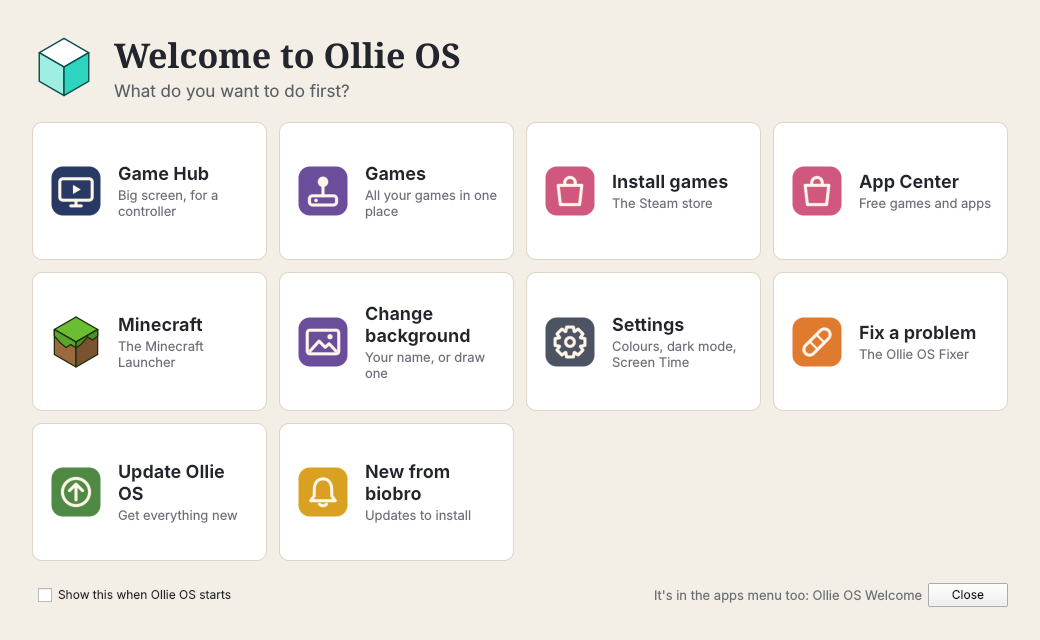
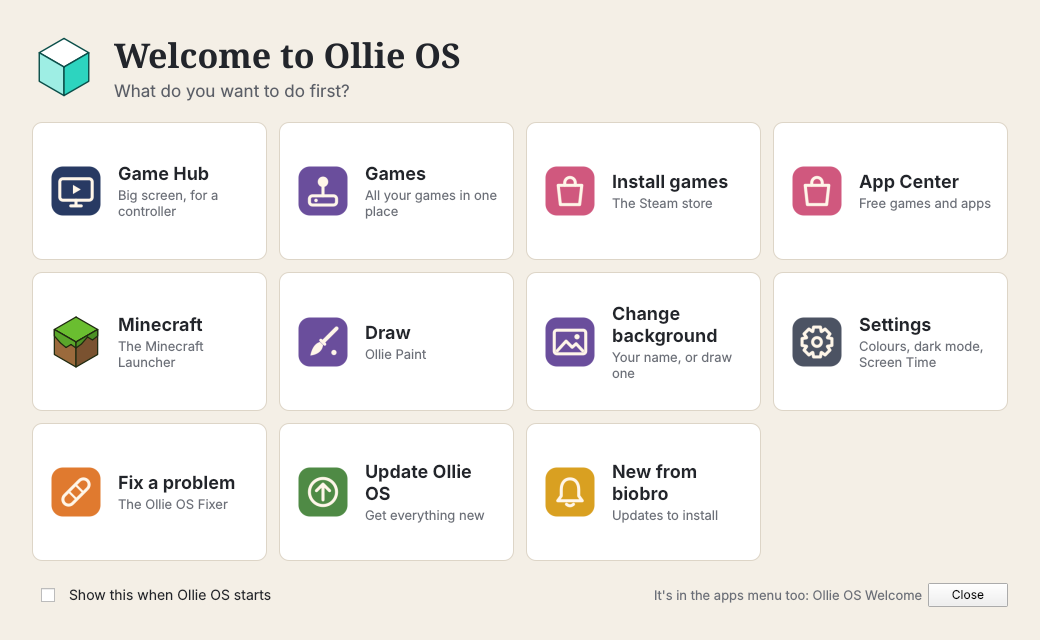
Add Ollie Paint, a mouse drawing app
Brush, pencil, eraser, fill bucket, line, rectangle and circle tools,
16 colours plus a colour picker, sizes, undo and redo, open a picture
to draw on, and Save to Pictures/Drawings. It is in the apps menu and
on the Welcome screen as Draw, with two new trophies (Painter, Gallery)
and its own icon. The Fun Pack updater now carries the apps' icons.

Claude-Session: https://claude.ai/code/session_01TsrSC7n5nV27rvJng7eshW

diff --git a/os/profile/airootfs/usr/local/share/ollie/paint.qml b/os/profile/airootfs/usr/local/share/ollie/paint.qml
@@ -1,0 +1,339 @@
+// Ollie Paint (ollie-paint): draw with the mouse. Brush, pencil, eraser,
+// fill bucket, line, rectangle and circle; a palette and any colour you
+// like; sizes; undo and redo (Ctrl+Z, Ctrl+Y); a new page, a picture to
+// draw on, and Save (a PNG in Pictures/Drawings).
+// Says on the console: OLLIE-ACTION saved FILE.
+// Argument: out=DIR (where drawings are saved).
+import QtQuick
+import QtQuick.Controls
+import QtQuick.Layouts
+import QtQuick.Dialogs
+
+ApplicationWindow {
+    id: win
+    width: 1180
+    height: 800
+    visible: true
+    title: "Ollie Paint"
+    color: "#E4E1DA" // a desk, with the paper on it
+
+    function arg(n) {
+        const a = Qt.application.arguments;
+        for (let i = 0; i < a.length; i++)
+            if (a[i].indexOf(n + "=") === 0)
+                return a[i].substring(n.length + 1);
+        return "";
+    }
+
+    property string tool: "brush"      // brush, pencil, eraser, fill, line, rect, circle
+    property color ink: "#22252B"
+    property int size: 10
+    property bool filled: false        // rectangles and circles: filled or outlined
+    property string note: ""
+    readonly property var colours: ["#22252B", "#6B6F78", "#FFFFFF", "#7E5634", "#C8473D", "#E07A2F", "#D9A021", "#F2D06B",
+        "#4F8A45", "#8DB86B", "#257A78", "#7FC4C0", "#336B9E", "#8FB7DD", "#6A4E9C", "#D0587E"]
+    readonly property var tools: [["brush", "Brush"], ["pencil", "Pencil"], ["eraser", "Eraser"], ["fill", "Fill"],
+        ["line", "Line"], ["rect", "Rectangle"], ["circle", "Circle"]]
+
+    // --- Undo and redo: the page's pixels before each change ---
+    property var undos: []
+    property var redos: []
+    function remember() {
+        const c = paper.getContext("2d");
+        const u = undos.slice(-24); u.push(c.getImageData(0, 0, paper.width, paper.height));
+        undos = u; redos = [];
+    }
+    function undo() {
+        if (!undos.length) return;
+        const c = paper.getContext("2d");
+        const r = redos.slice(); r.push(c.getImageData(0, 0, paper.width, paper.height)); redos = r;
+        const u = undos.slice(); c.drawImage(u.pop(), 0, 0); undos = u;
+        paper.requestPaint();
+    }
+    function redo() {
+        if (!redos.length) return;
+        const c = paper.getContext("2d");
+        const u = undos.slice(); u.push(c.getImageData(0, 0, paper.width, paper.height)); undos = u;
+        const r = redos.slice(); c.drawImage(r.pop(), 0, 0); redos = r;
+        paper.requestPaint();
+    }
+    function newPage() {
+        remember();
+        const c = paper.getContext("2d");
+        c.fillStyle = "white"; c.fillRect(0, 0, paper.width, paper.height);
+        paper.requestPaint(); note = "";
+    }
+    function save() {
+        const d = new Date(), two = n => (n < 10 ? "0" : "") + n;
+        const f = arg("out") + "/drawing-" + d.getFullYear() + "-" + two(d.getMonth() + 1) + "-" + two(d.getDate())
+            + "-" + two(d.getHours()) + two(d.getMinutes()) + two(d.getSeconds()) + ".png";
+        if (paper.save(f)) { note = "Saved in Pictures, Drawings."; console.log("OLLIE-ACTION saved " + f); }
+        else note = "It could not be saved.";
+    }
+
+    // Fill: the area of one colour around (x, y), in the ink (line by line).
+    function fill(x, y) {
+        const c = paper.getContext("2d"), w = paper.width, h = paper.height;
+        x = Math.floor(x); y = Math.floor(y);
+        if (x < 0 || y < 0 || x >= w || y >= h) return;
+        const img = c.getImageData(0, 0, w, h), px = img.data;
+        const at = (x + y * w) * 4;
+        const t = [px[at], px[at + 1], px[at + 2], px[at + 3]];
+        const ink = Qt.color(win.ink), n = [Math.round(ink.r * 255), Math.round(ink.g * 255), Math.round(ink.b * 255), 255];
+        if (t[0] === n[0] && t[1] === n[1] && t[2] === n[2] && t[3] === n[3]) return;
+        // Close colours count too (the edges of soft lines).
+        const same = i => Math.abs(px[i] - t[0]) + Math.abs(px[i + 1] - t[1]) + Math.abs(px[i + 2] - t[2]) + Math.abs(px[i + 3] - t[3]) < 200;
+        const set = i => { px[i] = n[0]; px[i + 1] = n[1]; px[i + 2] = n[2]; px[i + 3] = 255; };
+        const stack = [[x, y]];
+        while (stack.length) {
+            let [sx, sy] = stack.pop();
+            let i = (sx + sy * w) * 4;
+            while (sx >= 0 && same(i)) { sx--; i -= 4; }
+            sx++; i += 4;
+            let up = false, down = false;
+            while (sx < w && same(i)) {
+                set(i);
+                if (sy > 0) { const u = same(i - w * 4); if (u && !up) { stack.push([sx, sy - 1]); up = true; } else if (!u) up = false; }
+                if (sy < h - 1) { const d = same(i + w * 4); if (d && !down) { stack.push([sx, sy + 1]); down = true; } else if (!d) down = false; }
+                sx++; i += 4;
+            }
+        }
+        c.drawImage(img, 0, 0); // (putImageData does nothing in Qt's canvas here)
+        paper.requestPaint();
+    }
+
+    Shortcut { sequences: [StandardKey.Undo]; onActivated: win.undo() }
+    Shortcut { sequences: [StandardKey.Redo]; onActivated: win.redo() }
+    Shortcut { sequence: "Ctrl+Y"; onActivated: win.redo() }
+    Shortcut { sequences: [StandardKey.Save]; onActivated: win.save() }
+
+    FileDialog {
+        id: picker
+        title: "Pick a picture to draw on"
+        nameFilters: ["Pictures (*.png *.jpg *.jpeg *.bmp *.gif *.webp)"]
+        onAccepted: { win.remember(); paper.loadImage(selectedFile); paper.pending = selectedFile.toString(); }
+    }
+
+    ColumnLayout {
+        anchors.fill: parent
+        spacing: 0
+
+        // Top bar.
+        Rectangle {
+            Layout.fillWidth: true
+            Layout.preferredHeight: 56
+            color: "#F4F2EE"
+            border.color: "#D3CEC4"
+            RowLayout {
+                anchors.fill: parent
+                anchors.leftMargin: 16; anchors.rightMargin: 16
+                spacing: 8
+                Image { source: "file:///usr/share/icons/hicolor/64x64/apps/ollie-paint.png"; sourceSize: Qt.size(32, 32) }
+                Label { text: "Ollie Paint"; color: "#22252B"; font.pixelSize: 20; font.bold: true; rightPadding: 16 }
+                Button { text: "New"; onClicked: win.newPage() }
+                Button { text: "Open a picture"; onClicked: picker.open() }
+                Button { text: "Undo"; enabled: win.undos.length > 0; onClicked: win.undo() }
+                Button { text: "Redo"; enabled: win.redos.length > 0; onClicked: win.redo() }
+                Item { Layout.fillWidth: true }
+                Label { text: win.note; color: "#4F8A45"; font.pixelSize: 14 }
+                Button { text: "Save"; highlighted: true; onClicked: win.save() }
+            }
+        }
+
+        RowLayout {
+            Layout.fillWidth: true
+            Layout.fillHeight: true
+            spacing: 0
+
+            // The tools, down the side.
+            Rectangle {
+                Layout.fillHeight: true
+                Layout.preferredWidth: 132
+                color: "#F4F2EE"
+                border.color: "#D3CEC4"
+                ColumnLayout {
+                    anchors.fill: parent
+                    anchors.margins: 10
+                    spacing: 4
+                    Repeater {
+                        model: win.tools
+                        delegate: Rectangle {
+                            required property var modelData
+                            Layout.fillWidth: true
+                            height: 40; radius: 4
+                            color: win.tool === modelData[0] ? "#22252B" : toolArea.containsMouse ? "#E4E1DA" : "transparent"
+                            Label {
+                                anchors.verticalCenter: parent.verticalCenter; x: 12
+                                text: modelData[1]; font.pixelSize: 15
+                                color: win.tool === modelData[0] ? "white" : "#22252B"
+                            }
+                            MouseArea { id: toolArea; anchors.fill: parent; hoverEnabled: true; onClicked: win.tool = modelData[0] }
+                        }
+                    }
+                    CheckBox {
+                        visible: win.tool === "rect" || win.tool === "circle"
+                        checked: win.filled; onToggled: win.filled = checked
+                        contentItem: Label { text: "Filled"; leftPadding: 26; color: "#22252B"; verticalAlignment: Text.AlignVCenter }
+                    }
+                    Item { Layout.fillHeight: true }
+                    Label { text: "Size " + win.size; color: "#6B6F78"; font.pixelSize: 13 }
+                    Slider { Layout.fillWidth: true; from: 1; to: 60; stepSize: 1; value: win.size; onMoved: win.size = value }
+                    // How big the brush is, drawn.
+                    Item {
+                        Layout.fillWidth: true; Layout.preferredHeight: 66
+                        Rectangle {
+                            anchors.centerIn: parent
+                            width: Math.max(2, win.size); height: width; radius: width / 2
+                            color: win.tool === "eraser" ? "white" : win.ink
+                            border.color: "#B9B4AA"; border.width: win.tool === "eraser" ? 1 : 0
+                        }
+                    }
+                }
+            }
+
+            // The paper.
+            Item {
+                id: desk
+                Layout.fillWidth: true
+                Layout.fillHeight: true
+                clip: true
+                Rectangle { // its shadow
+                    x: paper.x + 4; y: paper.y + 4; width: paper.width; height: paper.height; color: "#C8C3B9"
+                }
+                Canvas {
+                    id: paper
+                    // A fixed size (a canvas that changes size loses its drawing).
+                    width: 1000; height: 620
+                    anchors.centerIn: parent
+                    property bool ready: false
+                    property string pending: ""
+                    property real lx: 0
+                    property real ly: 0
+                    onPaint: {
+                        if (ready) return;
+                        const c = getContext("2d");
+                        c.fillStyle = "white"; c.fillRect(0, 0, width, height);
+                        ready = true;
+                    }
+                    onImageLoaded: {
+                        if (!pending) return;
+                        const c = getContext("2d");
+                        c.fillStyle = "white"; c.fillRect(0, 0, width, height);
+                        // The picture, as big as fits, in the middle.
+                        const img = c.createImageData(pending);
+                        const iw = img.width || width, ih = img.height || height, k = Math.min(width / iw, height / ih, 1);
+                        c.drawImage(pending, (width - iw * k) / 2, (height - ih * k) / 2, iw * k, ih * k);
+                        unloadImage(pending); pending = "";
+                        requestPaint();
+                    }
+                    function line(c, x1, y1, x2, y2) {
+                        c.beginPath(); c.moveTo(x1, y1); c.lineTo(x2, y2); c.stroke();
+                    }
+                }
+                // A shape, while it is being drawn (on top; then onto the paper).
+                Canvas {
+                    id: preview
+                    anchors.fill: paper
+                    property real x1: 0
+                    property real y1: 0
+                    property real x2: 0
+                    property real y2: 0
+                    property bool on: false
+                    function shape(c) {
+                        c.lineWidth = win.size; c.lineCap = "round"; c.lineJoin = "round";
+                        c.strokeStyle = win.ink; c.fillStyle = win.ink;
+                        c.beginPath();
+                        if (win.tool === "line") { c.moveTo(x1, y1); c.lineTo(x2, y2); c.stroke(); return; }
+                        if (win.tool === "rect") c.rect(Math.min(x1, x2), Math.min(y1, y2), Math.abs(x2 - x1), Math.abs(y2 - y1));
+                        else c.ellipse(Math.min(x1, x2), Math.min(y1, y2), Math.abs(x2 - x1), Math.abs(y2 - y1));
+                        if (win.filled) c.fill(); else c.stroke();
+                    }
+                    onPaint: {
+                        const c = getContext("2d");
+                        c.clearRect(0, 0, width, height);
+                        if (on) shape(c);
+                    }
+                }
+                MouseArea {
+                    anchors.fill: paper
+                    cursorShape: win.tool === "fill" ? Qt.PointingHandCursor : Qt.CrossCursor
+                    onPressed: (m) => {
+                        win.remember();
+                        if (win.tool === "fill") { win.fill(m.x, m.y); return; }
+                        if (["line", "rect", "circle"].includes(win.tool)) {
+                            preview.x1 = preview.x2 = m.x; preview.y1 = preview.y2 = m.y; preview.on = true; preview.requestPaint();
+                            return;
+                        }
+                        paper.lx = m.x; paper.ly = m.y;
+                        dot(m.x, m.y);
+                    }
+                    onPositionChanged: (m) => {
+                        if (preview.on) { preview.x2 = m.x; preview.y2 = m.y; preview.requestPaint(); return; }
+                        if (win.tool === "fill") return;
+                        const c = paper.getContext("2d");
+                        brush(c);
+                        paper.line(c, paper.lx, paper.ly, m.x, m.y);
+                        paper.lx = m.x; paper.ly = m.y;
+                        paper.requestPaint();
+                    }
+                    onReleased: {
+                        if (!preview.on) return;
+                        preview.on = false;
+                        preview.shape(paper.getContext("2d"));
+                        preview.requestPaint(); paper.requestPaint();
+                    }
+                    function brush(c) {
+                        c.lineCap = win.tool === "pencil" ? "square" : "round"; c.lineJoin = "round";
+                        c.lineWidth = win.tool === "pencil" ? Math.max(1, Math.round(win.size / 3)) : win.size;
+                        c.strokeStyle = win.tool === "eraser" ? "white" : win.ink;
+                        c.fillStyle = c.strokeStyle;
+                    }
+                    function dot(x, y) {
+                        const c = paper.getContext("2d");
+                        brush(c);
+                        c.beginPath();
+                        if (win.tool === "pencil") c.fillRect(x - c.lineWidth / 2, y - c.lineWidth / 2, c.lineWidth, c.lineWidth);
+                        else { c.arc(x, y, c.lineWidth / 2, 0, 2 * Math.PI); c.fill(); }
+                        paper.requestPaint();
+                    }
+                }
+            }
+        }
+
+        // The colours along the bottom.
+        Rectangle {
+            Layout.fillWidth: true
+            Layout.preferredHeight: 64
+            color: "#F4F2EE"
+            border.color: "#D3CEC4"
+            RowLayout {
+                anchors.fill: parent
+                anchors.leftMargin: 16; anchors.rightMargin: 16
+                spacing: 6
+                Rectangle { // the colour now
+                    width: 44; height: 44; radius: 4; color: win.ink
+                    border.color: "#22252B"; border.width: 2
+                }
+                Item { width: 10 }
+                Repeater {
+                    model: win.colours
+                    delegate: Rectangle {
+                        required property string modelData
+                        width: 34; height: 34; radius: 4
+                        color: modelData
+                        border.color: Qt.colorEqual(win.ink, modelData) ? "#22252B" : "#C8C3B9"
+                        border.width: Qt.colorEqual(win.ink, modelData) ? 3 : 1
+                        MouseArea { anchors.fill: parent; onClicked: { win.ink = modelData; if (win.tool === "eraser") win.tool = "brush"; } }
+                    }
+                }
+                Button { text: "More colours"; onClicked: { colourDialog.selectedColor = win.ink; colourDialog.open(); } }
+                Item { Layout.fillWidth: true }
+            }
+        }
+    }
+    ColorDialog {
+        id: colourDialog
+        title: "Pick a colour"
+        onAccepted: { win.ink = selectedColor; if (win.tool === "eraser") win.tool = "brush"; }
+    }
+}

diff --git a/docs/index.html b/docs/index.html
@@ -186,7 +186,7 @@
     <div class="apps">
       <div class="app"><img src="icons/ollie-gamehub.png" alt=""><div><b>Game Hub</b><span>Every game on the big screen, with a controller.</span></div></div>
       <div class="app"><img src="icons/ollie-appcenter.png" alt=""><div><b>App Center</b><span>Free games picked for you, Ollie's extra apps, plus Epic &amp; GOG.</span></div></div>
-      <div class="app"><img src="icons/ollie-trophies.png" alt=""><div><b>Trophies</b><span>32 trophies to win across the apps.</span></div></div>
+      <div class="app"><img src="icons/ollie-trophies.png" alt=""><div><b>Trophies</b><span>34 trophies to win across the apps.</span></div></div>
       <div class="app"><img src="icons/ollie-playtime.png" alt=""><div><b>Play Time</b><span>How long you played each game this week.</span></div></div>
       <div class="app"><img src="icons/ollie-games.png" alt=""><div><b>Games</b><span>Every game in one place. Drop in ROMs and ISOs.</span></div></div>
       <div class="app"><img src="icons/ollie-pet.png" alt=""><div><b>Ollie Pet</b><span>Your own cube pet. It grows up and plays games.</span></div></div>
@@ -200,6 +200,7 @@
       <div class="app"><img src="icons/ollie-photobooth.png" alt=""><div><b>Photo Booth</b><span>Webcam photos with hats and stickers.</span></div></div>
       <div class="app"><img src="icons/ollie-sticker.png" alt=""><div><b>Sticker Maker</b><span>Make stickers and stick them on your desktop. In the App Center.</span></div></div>
       <div class="app"><img src="icons/ollie-comic.png" alt=""><div><b>Comic Maker</b><span>Comics with 1 to 4 panels and speech bubbles.</span></div></div>
+      <div class="app"><img src="icons/ollie-paint.png" alt=""><div><b>Ollie Paint</b><span>Draw with the mouse: brushes, shapes, fill and any colour.</span></div></div>
       <div class="app"><img src="icons/ollie-animator.png" alt=""><div><b>Ollie Animator</b><span>Draw a cartoon frame by frame, save a GIF. In the App Center.</span></div></div>
       <div class="app"><img src="icons/ollie-soundboard.png" alt=""><div><b>Sound Board</b><span>12 big sound buttons. Record your own. In the App Center.</span></div></div>
     </div>
@@ -241,6 +242,7 @@
       <figure><img src="screenshots/trophies.png" alt="Trophies" loading="lazy"><figcaption>Trophies</figcaption></figure>
       <figure><img src="screenshots/pet.png" alt="Ollie Pet" loading="lazy"><figcaption>Ollie Pet</figcaption></figure>
       <figure><img src="screenshots/music.png" alt="Music Maker" loading="lazy"><figcaption>Music Maker</figcaption></figure>
+      <figure><img src="screenshots/paint.png" alt="Ollie Paint" loading="lazy"><figcaption>Ollie Paint</figcaption></figure>
       <figure><img src="screenshots/comic.png" alt="Comic Maker" loading="lazy"><figcaption>Comic Maker</figcaption></figure>
       <figure><img src="screenshots/games.png" alt="The Games app" loading="lazy"><figcaption>Games</figcaption></figure>
       <figure><img src="screenshots/coop.png" alt="Couch Co-op" loading="lazy"><figcaption>Couch Co-op</figcaption></figure>

diff --git a/os/profile/airootfs/usr/local/share/ollie/welcome.qml b/os/profile/airootfs/usr/local/share/ollie/welcome.qml
@@ -33,6 +33,7 @@ ApplicationWindow {
         { icon: "/usr/share/icons/hicolor/256x256/apps/steam.png", label: "Install games", hint: "The Steam store", act: "games" },
         { icon: "ollie-appcenter", label: "App Center", hint: "Free games and apps", act: "appcenter" },
         { icon: "/usr/share/icons/hicolor/scalable/apps/ollie-minecraft.svg", label: "Minecraft", hint: "The Minecraft Launcher", act: "minecraft" },
+        { icon: "ollie-paint", label: "Draw", hint: "Ollie Paint", act: "paint" },
         { icon: "ollie-wallpaper-maker", label: "Change background", hint: "Your name, or draw one", act: "background" },
         { icon: "ollie-settings", label: "Settings", hint: "Colours, dark mode, Screen Time", act: "settings" },
         { icon: "ollie-fixer", label: "Fix a problem", hint: "The Ollie OS Fixer", act: "fixer" },

diff --git a/os/art/make-app-icons.py b/os/art/make-app-icons.py
@@ -60,6 +60,8 @@ ICONS = {
                            + '<line x1="98" y1="158" x2="158" y2="158"/>'),
     "ollie-coop": (ORANGE, '<path d="M86 100 H170 C194 100 205 122 207 150 C209 176 198 186 186 186 C174 186 168 170 156 162 H100 C88 170 82 186 70 186 C58 186 47 176 49 150 C51 122 62 100 86 100 Z"/>'
                            f'<path d="M88 130 V158 M74 144 H102" stroke-width="10"/><circle cx="162" cy="134" r="8"{F}/><circle cx="180" cy="152" r="8"{F}/>'),
+    "ollie-paint": (PURPLE, '<line x1="190" y1="66" x2="132" y2="124" stroke-width="18"/><path d="M118 120 L136 138"/>'
+                            f'<path d="M114 128 L128 142 C126 168 104 186 70 190 C76 160 90 134 114 128 Z"{F}/><circle cx="178" cy="176" r="12"{F}/>'),
     "ollie-sticker": (PINK, f'<path d="{star(128, 132, 66, 28)}"/>'),
     "ollie-comic": (MUSTARD, '<path d="M72 80 H184 A20 20 0 0 1 204 100 V148 A20 20 0 0 1 184 168 H120 L88 196 V168 H72 A20 20 0 0 1 52 148 V100 A20 20 0 0 1 72 80 Z"/>'
                              f'<circle cx="100" cy="124" r="9"{F}/><circle cx="128" cy="124" r="9"{F}/><circle cx="156" cy="124" r="9"{F}/>'),

diff --git a/README.md b/README.md
@@ -25,7 +25,7 @@ playing, making and learning.
 - **Play:** Game Hub (TV mode for controllers), Games (drop in ROMs and ISOs),
   App Center (free games, Epic & GOG, and Ollie's extra apps), Couch Co-op,
   Typing Game, Ollie Pet, Quick Menu, Play Time, Trophies
-- **Make:** Music Maker, Photo Booth, Comic Maker
+- **Make:** Ollie Paint, Music Maker, Photo Booth, Comic Maker
 - **Learn:** Coding Quest, Math Quest, Fun Fact of the Day, Ollie's Tour
 - **In the App Center, to install if you want them:** Sticker Maker, Ollie
   Animator, Sound Board, Spelling Bee, World Explorer, Space Explorer
